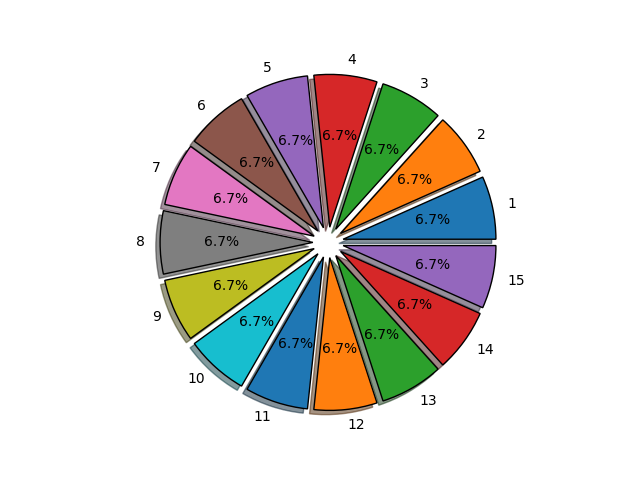
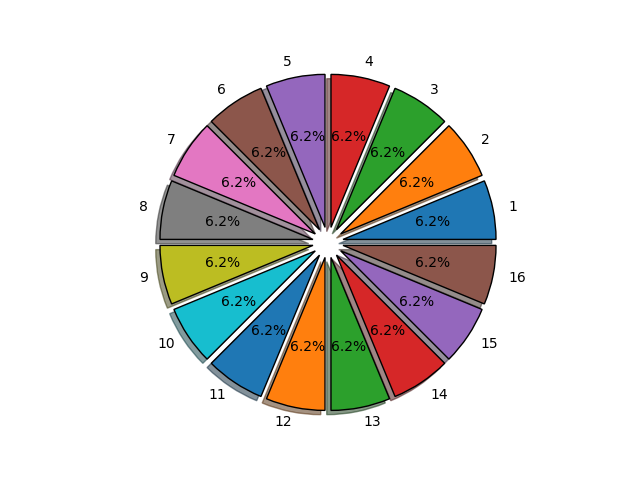
Изменение 1

diff --git a/main.py b/main.py
@@ -189,32 +189,32 @@ print(secret_2)
 
 # Задание 2 Кобозев Якушенко
 k2, c2, t2, l2 = symbols("k2 c2 t2 l2")
-c_ost2 = 1000000
+c_ost2 = 2000000
 am_lst5 = []
 c_ost_lst5 = []
-for i in range(15):
+for i in range(16):
     Am = (c2 - l2) / t2
-    c_ost2 -= Am.subs({c2: 1000000, l2: 0, t2: 15})
-    am_lst5.append(round(Am.subs({c2: 1000000, l2: 0, t2: 15}), 2))
+    c_ost2 -= Am.subs({c2: 2000000, l2: 0, t2: 16})
+    am_lst5.append(round(Am.subs({c2: 2000000, l2: 0, t2: 16}), 2))
     c_ost_lst5.append(round(c_ost2, 2))
 print("Am_list5", am_lst5)
 print("c_ost_list5", c_ost_lst5)
 
 Aj2 = 0
-C_ost2 = 1000000
+C_ost2 = 2000000
 am_lst6 = []
 c_ost_lst6 = []
-for i in range(15): #Что это деалет? Ответ: создает цикл из 15 итераций
+for i in range(16): #Что это деалет? Ответ: создает цикл из 15 итераций
     Am = k2 * 1 / t2 * (c2 - Aj2)
-    C_ost2 -= Am.subs({k2: 2, t2: 15, c2: 1000000})
+    C_ost2 -= Am.subs({k2: 2, t2: 16, c2: 2000000})
     c_ost_lst6.append(round(C_ost2, 2))
     Aj2 += Am
-    am_lst6.append(round(Am.subs({k2: 2, t2: 15, c2: 1000000}), 2))
+    am_lst6.append(round(Am.subs({k2: 2, t2: 16, c2: 2000000}), 2))
 print("Am_lst6:", am_lst6)
 print("c_ost_lst6:", c_ost_lst6)
 # Создание таблиц
 print("")
-Y = range(1, 16)
+Y = range(1, 17)
 table3 = zip(Y, am_lst5, c_ost_lst5)
 table4 = zip(Y, am_lst6, c_ost_lst6)
 tframe3 = pd.DataFrame(table3, columns=["Y", "am_lst5", "c_ost_lst5"]) #Что это делает? Ответ: создает таблицу
@@ -236,8 +236,8 @@ plt.xlabel("Год")
 plt.savefig("picture14.png")
 
 vals3 = am_lst5
-labels = [str(x) for x in range(1, 16)]
-explode = [0.1] * 15 #Что это делает? Ответ: создание списка с отступами между частями круговой диаграммы 
+labels = [str(x) for x in range(1, 17)]
+explode = [0.1] * 16 #Что это делает? Ответ: создание списка с отступами между частями круговой диаграммы 
 fig, ax = plt.subplots()
 plt.pie(
     vals3,
@@ -252,7 +252,7 @@ ax.axis("equal")
 plt.savefig("picture15.png")
 
 vals4 = am_lst6
-labels2 = [str(x) for x in range(1, 16)]
+labels2 = [str(x) for x in range(1, 17)]
 fig, ax = plt.subplots()
 plt.pie(
     vals4,
